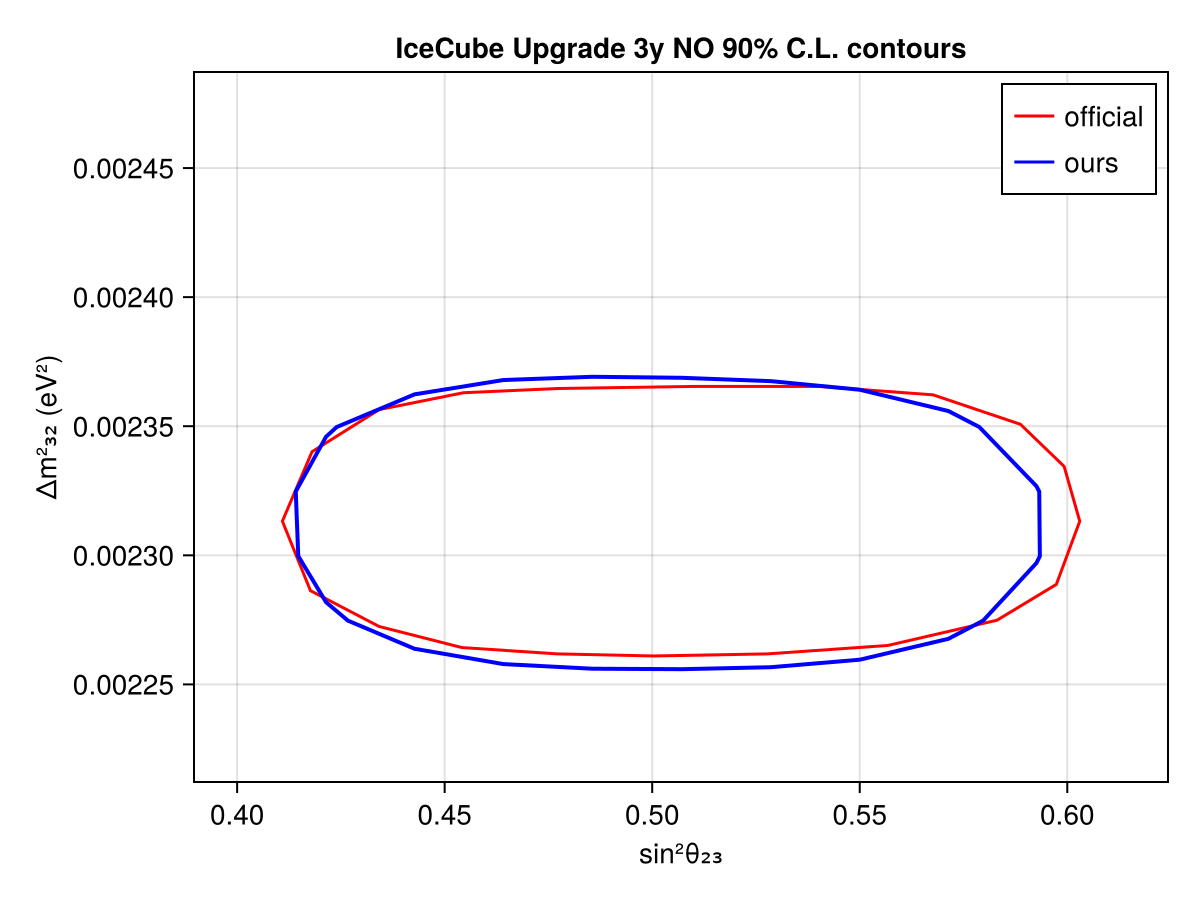
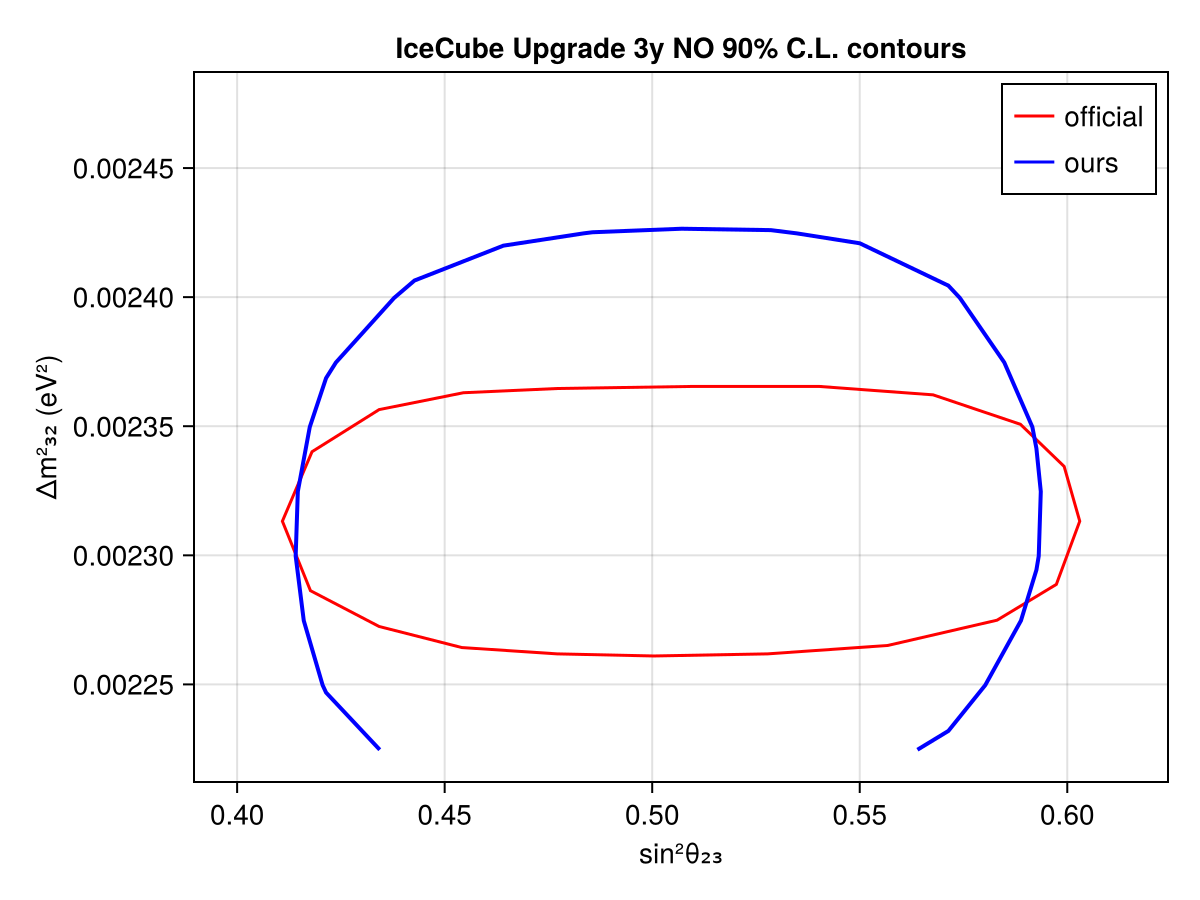
icu energy scale changes

diff --git a/src/experiments/icecube/upgrade_sim_2020/README.md b/src/experiments/icecube/upgrade_sim_2020/README.md
@@ -6,14 +6,14 @@ data source: https://icecube.wisc.edu/data-releases/2020/04/icecube-upgrade-neut
 ![DataMC](test_output/spectrum.png)
 ## Meta Information
 - **repo_clean**: false
-- **exec_time**: 11.654697895050049
+- **exec_time**: 1733.0327620506287
 - **username**: peller
 - **repo**: /mnt/c/Users/peller/work/Newtrinos
 - **cache_dir**: test
 - **hostname**: flippy
 - **params**: (atm_flux_delta_spectral_index = 0.0, atm_flux_nuenumu_sigma = 0.0, atm_flux_nunubar_sigma = 0.0, atm_flux_uphorizonzal_sigma = 0.0, ic_upgrade_energy_scale = 1.0, ic_upgrade_lifetime = 3.0, nc_norm = 1.0, nutau_cc_norm = 1.0, Δm²₂₁ = 7.53e-5, Δm²₃₁ = 0.0023853, δCP = 1.0, θ₁₂ = 0.5872523687443223, θ₁₃ = 0.1454258194533693, θ₂₃ = 0.7953988301841435)
-- **date**: 2025-10-08 16:27:04
+- **date**: 2025-10-23 09:51:45
 - **task**: profile
 - **vars_to_scan**: OrderedDict{Any, Any}(:θ₂₃ => 11, :Δm²₃₁ => 11)
-- **commit_hash**: d1afda6281372d8e4e2eb3e6a4210f7a81bfdff9
-- **priors**: (atm_flux_delta_spectral_index = Truncated(Normal{Float64}(μ=0.0, σ=0.1); lower=-0.3, upper=0.3), atm_flux_nuenumu_sigma = Truncated(Normal{Float64}(μ=0.0, σ=1.0); lower=-3.0, upper=3.0), atm_flux_nunubar_sigma = Truncated(Normal{Float64}(μ=0.0, σ=1.0); lower=-3.0, upper=3.0), atm_flux_uphorizonzal_sigma = Truncated(Normal{Float64}(μ=0.0, σ=1.0); lower=-3.0, upper=3.0), ic_upgrade_energy_scale = Truncated(Normal{Float64}(μ=1.0, σ=0.1); lower=0.8, upper=1.2), ic_upgrade_lifetime = Uniform{Float64}(a=2.0, b=4.0), nc_norm = Truncated(Normal{Float64}(μ=1.0, σ=0.2); lower=0.4, upper=1.6), nutau_cc_norm = 1.0, Δm²₂₁ = 7.53e-5, Δm²₃₁ = Uniform{Float64}(a=0.0023, b=0.00255), δCP = 1.0, θ₁₂ = 0.5872523687443223, θ₁₃ = Truncated(Normal{Float64}(μ=0.156, σ=0.008); lower=0.13, upper=0.18), θ₂₃ = Uniform{Float64}(a=0.685, b=0.9))
+- **commit_hash**: 0bdd199ef69cd33e341cb6a7744e6a8f28bffcc0
+- **priors**: (atm_flux_delta_spectral_index = Truncated(Normal{Float64}(μ=0.0, σ=0.1); lower=-0.3, upper=0.3), atm_flux_nuenumu_sigma = Truncated(Normal{Float64}(μ=0.0, σ=1.0); lower=-3.0, upper=3.0), atm_flux_nunubar_sigma = Truncated(Normal{Float64}(μ=0.0, σ=1.0); lower=-3.0, upper=3.0), atm_flux_uphorizonzal_sigma = Truncated(Normal{Float64}(μ=0.0, σ=1.0); lower=-3.0, upper=3.0), ic_upgrade_energy_scale = Truncated(Normal{Float64}(μ=1.0, σ=0.02); lower=0.5, upper=1.5), ic_upgrade_lifetime = Uniform{Float64}(a=2.0, b=4.0), nc_norm = Truncated(Normal{Float64}(μ=1.0, σ=0.2); lower=0.4, upper=1.6), nutau_cc_norm = 1.0, Δm²₂₁ = 7.53e-5, Δm²₃₁ = Uniform{Float64}(a=0.0023, b=0.00255), δCP = 1.0, θ₁₂ = 0.5872523687443223, θ₁₃ = Truncated(Normal{Float64}(μ=0.156, σ=0.008); lower=0.13, upper=0.18), θ₂₃ = Uniform{Float64}(a=0.685, b=0.9))
